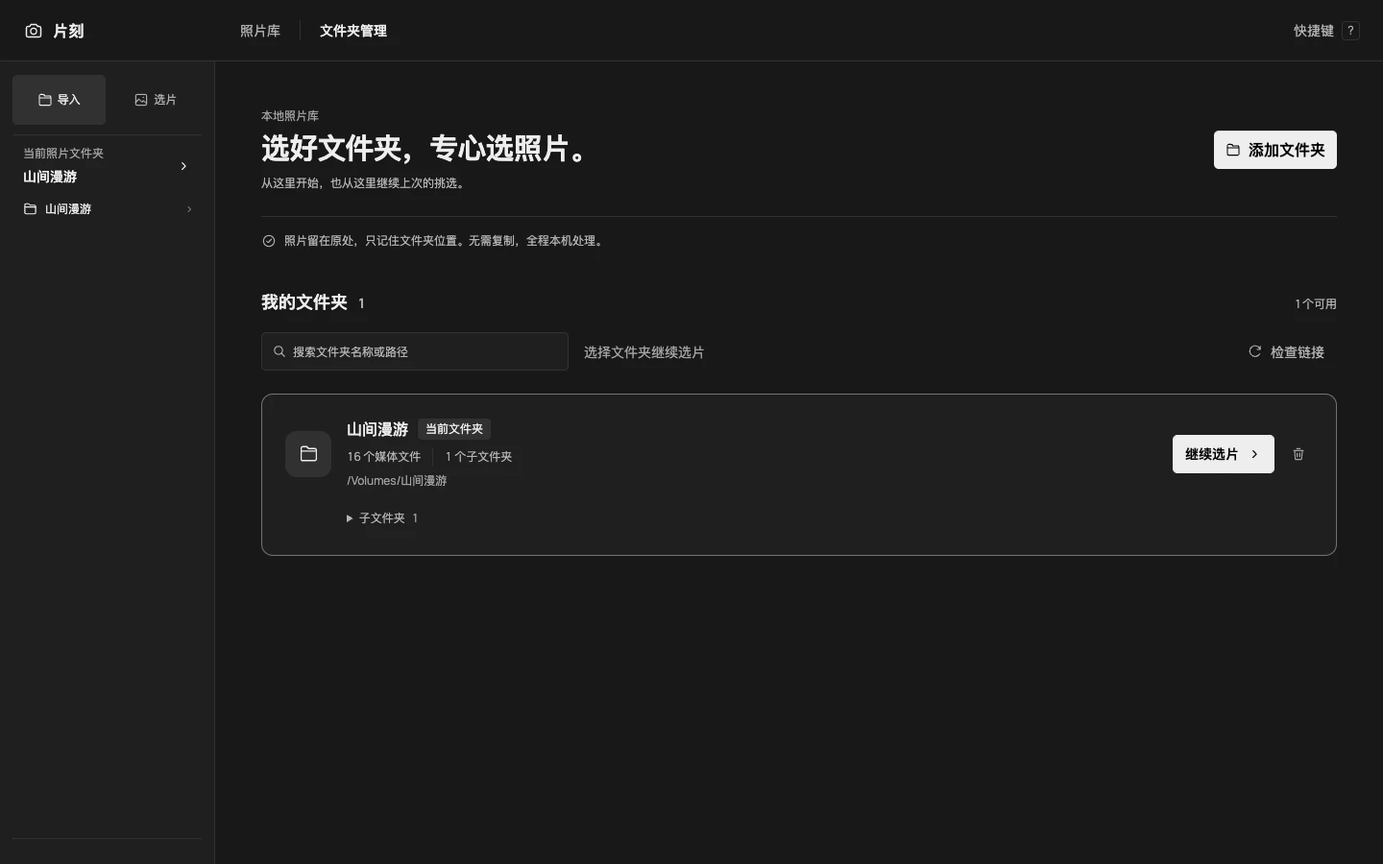
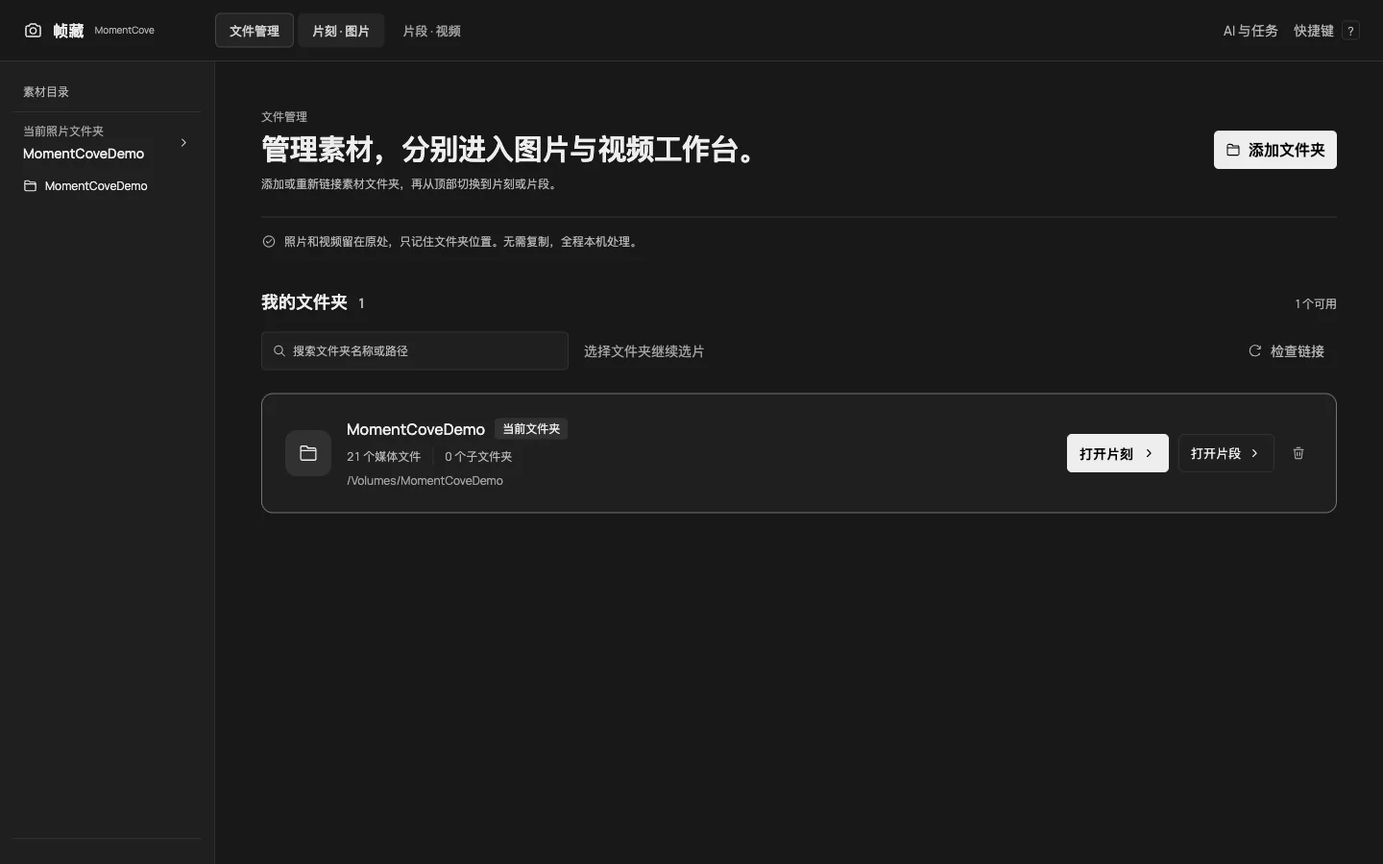
feat(site): 改用自有演示素材并同步 2.0.2 下载
使用作者授权的20张自有图片重拍单图、专注、对比、网格、文件管理和视频工作台截图。
替换现有公开图，删除旧风景演示资产，同步版权、截图版本和视频演示说明。
片刻与片段继续独立展示、共用同一个安装包。28项站点回归通过，原始PNG哈希未变。

diff --git a/cook-photo/index.html b/cook-photo/index.html
@@ -4,10 +4,10 @@
   <meta charset="utf-8">
   <meta name="viewport" content="width=device-width, initial-scale=1">
   <meta name="theme-color" content="#f5f5f7">
-  <meta name="description" content="下载帧藏 MomentCove 2.0.1，使用片刻图片工作台。黑白灰暗色主题、H 一键专注、居中胶片条、本地文件夹管理、照片标星与 RAW 整理。">
+  <meta name="description" content="下载帧藏 MomentCove 2.0.2，使用片刻图片工作台。黑白灰暗色主题、H 一键专注、居中胶片条、本地文件夹管理、照片标星与 RAW 整理。">
   <meta property="og:title" content="片刻 cook-photo · 专注于选片的 Mac 小工具">
   <meta property="og:description" content="黑白灰工作台，让照片成为主角。H 一键专注选片，胶片条随选中项居中，切换文件夹后接着选。">
-  <meta property="og:image" content="https://cxdy.top/assets/images/cook-photo-single.webp?v=1.6.0">
+  <meta property="og:image" content="https://cxdy.top/assets/images/cook-photo-single.webp?v=2.0.2">
   <meta property="og:url" content="https://cxdy.top/cook-photo/">
   <meta property="og:type" content="website">
   <meta property="og:site_name" content="爨乡的云">
@@ -44,7 +44,7 @@
   <div class="local-nav">
     <nav class="local-nav-inner" aria-label="片刻产品导航">
       <a class="local-title" href="#overview">片刻</a>
-      <div class="local-links"><a class="local-overview" href="#features">功能亮点</a><a class="local-screens" href="#screens-title">实际界面</a><a href="#guide-title">安装说明</a><a class="button local-download" href="https://github.com/cxdyun/cxdy-top/releases/download/cxdy-moment-v2.0.1/cxdy-moment-2.0.1-arm64.dmg">下载<span class="sr-only">片刻测试版</span></a></div>
+      <div class="local-links"><a class="local-overview" href="#features">功能亮点</a><a class="local-screens" href="#screens-title">实际界面</a><a href="#guide-title">安装说明</a><a class="button local-download" href="https://github.com/cxdyun/cxdy-top/releases/download/cxdy-moment-v2.0.2/cxdy-moment-2.0.2-arm64.dmg">下载<span class="sr-only">片刻测试版</span></a></div>
     </nav>
   </div>
     <main class="tool-page" id="main" tabindex="-1">
@@ -55,12 +55,12 @@
           <p class="tool-description">黑白灰工作台，让照片成为主角。<br>一键收起界面，专心看清每一张。</p>
         </div>
         <div class="release-download">
-          <a class="button primary-link" href="https://github.com/cxdyun/cxdy-top/releases/download/cxdy-moment-v2.0.1/cxdy-moment-2.0.1-arm64.dmg">下载 macOS 版<span class="sr-only">（DMG 安装包，Apple Silicon）</span></a>
-          <p class="runtime-note">与片段共用帧藏 MomentCove 安装包，文件管理、图片和视频在顶部独立切换。<br>v2.0.1 测试版 · 492.0 MiB<br>Apple Silicon · macOS 26.2 及以上<br>尚未完成 Apple 公证 · <a href="#guide-title">安装说明</a></p>
+          <a class="button primary-link" href="https://github.com/cxdyun/cxdy-top/releases/download/cxdy-moment-v2.0.2/cxdy-moment-2.0.2-arm64.dmg">下载 macOS 版<span class="sr-only">（DMG 安装包，Apple Silicon）</span></a>
+          <p class="runtime-note">与片段共用帧藏 MomentCove 安装包，文件管理、图片和视频在顶部独立切换。<br>v2.0.2 测试版 · 489.6 MiB<br>Apple Silicon · macOS 26.2 及以上<br>尚未完成 Apple 公证 · <a href="#guide-title">安装说明</a></p>
         </div>
       </section>
       <figure class="product-shot hero-shot">
-        <a class="screenshot-link" href="/assets/images/cook-photo-single.webp?v=1.6.0" target="_blank" rel="noopener" aria-label="查看单图选片原尺寸截图（在新标签页打开）"><img src="/assets/images/cook-photo-single.webp?v=1.6.0" width="1440" height="900" fetchpriority="high" decoding="async" alt="片刻真实界面：中央大图预览山湖照片，底部胶片条定位当前照片，左侧筛选，工具栏支持五级标星与待删除标记。"></a>
+        <a class="screenshot-link" href="/assets/images/cook-photo-single.webp?v=2.0.2" target="_blank" rel="noopener" aria-label="查看单图选片原尺寸截图（在新标签页打开）"><img src="/assets/images/cook-photo-single.webp?v=2.0.2" width="1440" height="900" fetchpriority="high" decoding="async" alt="片刻真实界面：中央大图预览水乡晨光图片，底部胶片条定位当前照片，左侧筛选，工具栏支持五级标星与待删除标记。"></a>
         <figcaption><span><b>01 / 单图选片</b> 大图看细节，胶片条随选中项居中，到首尾自动停靠。</span><span class="shot-shortcut"><kbd>←</kbd><kbd>→</kbd> 切图 <kbd>0–5</kbd> 标星 <kbd>X</kbd> 待删除</span></figcaption>
       </figure>
       <section class="tool-features" id="features" aria-labelledby="features-title">
@@ -71,10 +71,10 @@
         <div><span class="feature-index">03</span><h3>顺手，才够快。</h3><p>按 H 进入专注模式，收起导航、信息栏与胶片条。方向键切图、数字键标星，Esc 依次退出放大、对比和专注。</p></div>
         </div>
       </section>
-      <section class="screen-gallery" aria-labelledby="screens-title"><div class="gallery-heading"><div><p class="eyebrow">实际使用</p><h2 id="screens-title">专注、比较、整理。</h2></div><p>沿用原有 1.6.0 风景素材截图；2.0.1 增加三模块导航与本地 AI。</p></div><div class="screen-pair"><figure class="product-shot"><a class="screenshot-link" href="/assets/images/cook-photo-focus.webp?v=1.6.0" target="_blank" rel="noopener" aria-label="查看专注选片原尺寸截图（在新标签页打开）"><img src="/assets/images/cook-photo-focus.webp?v=1.6.0" width="1440" height="900" loading="lazy" decoding="async" alt="片刻 1.6.0 专注选片真实界面：按 H 收起四周面板，把空间留给照片。"></a><figcaption><b>02 / 专注选片</b><p>按 H 收起四周面板，把空间留给照片。</p></figcaption></figure>
-<figure class="product-shot"><a class="screenshot-link" href="/assets/images/cook-photo-compare.webp?v=1.6.0" target="_blank" rel="noopener" aria-label="查看左右对比原尺寸截图（在新标签页打开）"><img src="/assets/images/cook-photo-compare.webp?v=1.6.0" width="1440" height="900" loading="lazy" decoding="async" alt="片刻 1.6.0 左右对比真实界面：按 C 并排比较，放大查看细节。"></a><figcaption><b>03 / 左右对比</b><p>按 C 并排比较，放大查看细节。</p></figcaption></figure>
-<figure class="product-shot"><a class="screenshot-link" href="/assets/images/cook-photo-grid.webp?v=1.6.0" target="_blank" rel="noopener" aria-label="查看网格浏览原尺寸截图（在新标签页打开）"><img src="/assets/images/cook-photo-grid.webp?v=1.6.0" width="1440" height="900" loading="lazy" decoding="async" alt="片刻 1.6.0 网格浏览真实界面：一屏浏览整组照片，白色轮廓标示当前选择。"></a><figcaption><b>04 / 网格浏览</b><p>一屏浏览整组照片，白色轮廓标示当前选择。</p></figcaption></figure>
-<figure class="product-shot"><a class="screenshot-link" href="/assets/images/cook-photo-folders.webp?v=1.6.0" target="_blank" rel="noopener" aria-label="查看文件夹管理原尺寸截图（在新标签页打开）"><img src="/assets/images/cook-photo-folders.webp?v=1.6.0" width="1440" height="900" loading="lazy" decoding="async" alt="片刻 1.6.0 文件夹管理真实界面：记住本地目录，切换后继续上次的挑选。"></a><figcaption><b>05 / 文件夹管理</b><p>记住本地目录，切换后继续上次的挑选。</p></figcaption></figure></div><p class="screenshot-note">以上为 1.6.0 原有图片工作台实拍，使用公开风景演示库，不含私人照片或个人目录。点击图片查看原尺寸。<a href="/cook-photo/credits.md">素材来源与许可</a></p></section>
+      <section class="screen-gallery" aria-labelledby="screens-title"><div class="gallery-heading"><div><p class="eyebrow">实际使用</p><h2 id="screens-title">专注、比较、整理。</h2></div><p>2.0.2 实际工作台，演示图片均由作者授权公开。</p></div><div class="screen-pair"><figure class="product-shot"><a class="screenshot-link" href="/assets/images/cook-photo-focus.webp?v=2.0.2" target="_blank" rel="noopener" aria-label="查看专注选片原尺寸截图（在新标签页打开）"><img src="/assets/images/cook-photo-focus.webp?v=2.0.2" width="1440" height="900" loading="lazy" decoding="async" alt="片刻 2.0.2 专注选片真实界面：按 H 收起四周面板，把空间留给照片。"></a><figcaption><b>02 / 专注选片</b><p>按 H 收起四周面板，把空间留给照片。</p></figcaption></figure>
+<figure class="product-shot"><a class="screenshot-link" href="/assets/images/cook-photo-compare.webp?v=2.0.2" target="_blank" rel="noopener" aria-label="查看左右对比原尺寸截图（在新标签页打开）"><img src="/assets/images/cook-photo-compare.webp?v=2.0.2" width="1440" height="900" loading="lazy" decoding="async" alt="片刻 2.0.2 左右对比真实界面：按 C 并排比较，放大查看细节。"></a><figcaption><b>03 / 左右对比</b><p>按 C 并排比较，放大查看细节。</p></figcaption></figure>
+<figure class="product-shot"><a class="screenshot-link" href="/assets/images/cook-photo-grid.webp?v=2.0.2" target="_blank" rel="noopener" aria-label="查看网格浏览原尺寸截图（在新标签页打开）"><img src="/assets/images/cook-photo-grid.webp?v=2.0.2" width="1440" height="900" loading="lazy" decoding="async" alt="片刻 2.0.2 网格浏览真实界面：一屏浏览整组照片，白色轮廓标示当前选择。"></a><figcaption><b>04 / 网格浏览</b><p>一屏浏览整组照片，白色轮廓标示当前选择。</p></figcaption></figure>
+<figure class="product-shot"><a class="screenshot-link" href="/assets/images/cook-photo-folders.webp?v=2.0.2" target="_blank" rel="noopener" aria-label="查看文件夹管理原尺寸截图（在新标签页打开）"><img src="/assets/images/cook-photo-folders.webp?v=2.0.2" width="1440" height="900" loading="lazy" decoding="async" alt="片刻 2.0.2 文件夹管理真实界面：记住本地目录，切换后继续上次的挑选。"></a><figcaption><b>05 / 文件夹管理</b><p>记住本地目录，切换后继续上次的挑选。</p></figcaption></figure></div><p class="screenshot-note">以上为 2.0.2 实际工作台截图，使用作者自有授权演示库，不含私人照片或个人目录。点击图片查看原尺寸。<a href="/cook-photo/credits.md">素材来源与许可</a></p></section>
       <section class="start-guide" aria-labelledby="folder-guide-title">
         <div><p class="eyebrow">本地文件夹管理</p><h2 id="folder-guide-title">记住位置，继续选片。</h2></div>
         <div class="guide-content">
@@ -86,7 +86,7 @@
         <div><p class="eyebrow">开始使用</p><h2 id="guide-title">装好，就能选片。</h2></div>
         <div class="guide-content">
           <ol><li><span>下载并打开 DMG，将 MomentCove 拖入 Applications。</span></li><li><span>从应用程序目录打开「帧藏」。</span></li><li><span>在“文件管理”页添加照片文件夹，点击“打开片刻”，即可浏览、标星与整理。</span></li></ol>
-          <details><summary>首次打开与版本说明<span class="details-plus" aria-hidden="true"></span></summary><p>当前为 Apple Silicon 测试版，尚未完成 Apple Developer ID 签名与公证。如果系统阻止首次启动，请确认文件来自本站，再参考 <a href="https://support.apple.com/zh-cn/102445" target="_blank" rel="noopener noreferrer">Apple 官方说明</a>，在系统提供的“隐私与安全性 → 仍要打开”入口自行确认。Intel Mac 暂不支持。</p><p>最低系统目标为 macOS 26.2，已在当前 Apple Silicon Mac 上完成验证，尚未覆盖所有系统版本。星级写入 JPG、RAW 与 XMP；像素蛋糕对外部星级的识别仍需实际导入确认。</p><p>后台随应用启动和退出，关闭窗口时会等待已提交的文件操作完成。帧藏从空库开始，不导入旧应用数据；旧应用原始素材与恢复记录保持原状。<a href="https://github.com/cxdyun/cxdy-top/releases/tag/cxdy-moment-v2.0.1">查看发行说明</a> · <a href="https://github.com/cxdyun/cxdy-top/releases/download/cxdy-moment-v2.0.1/cxdy-moment-2.0.1-arm64.dmg.sha256">下载 SHA-256 校验文件</a></p></details>
+          <details><summary>首次打开与版本说明<span class="details-plus" aria-hidden="true"></span></summary><p>当前为 Apple Silicon 测试版，尚未完成 Apple Developer ID 签名与公证。如果系统阻止首次启动，请确认文件来自本站，再参考 <a href="https://support.apple.com/zh-cn/102445" target="_blank" rel="noopener noreferrer">Apple 官方说明</a>，在系统提供的“隐私与安全性 → 仍要打开”入口自行确认。Intel Mac 暂不支持。</p><p>最低系统目标为 macOS 26.2，已在当前 Apple Silicon Mac 上完成验证，尚未覆盖所有系统版本。星级写入 JPG、RAW 与 XMP；像素蛋糕对外部星级的识别仍需实际导入确认。</p><p>后台随应用启动和退出，关闭窗口时会等待已提交的文件操作完成。帧藏从空库开始，不导入旧应用数据；旧应用原始素材与恢复记录保持原状。<a href="https://github.com/cxdyun/cxdy-top/releases/tag/cxdy-moment-v2.0.2">查看发行说明</a> · <a href="https://github.com/cxdyun/cxdy-top/releases/download/cxdy-moment-v2.0.2/cxdy-moment-2.0.2-arm64.dmg.sha256">下载 SHA-256 校验文件</a></p></details>
         </div>
       </section>
     </main>

diff --git a/index.html b/index.html
@@ -51,24 +51,24 @@
           <p class="product-description">黑白灰工作台，让照片成为主角。<br class="mobile-break">按 H 专注选片，从整组里留下喜欢。</p>
           <div class="product-actions">
             <a class="button" href="/cook-photo/">进一步了解<span class="sr-only">片刻</span></a>
-            <a class="button button-outline" href="https://github.com/cxdyun/cxdy-top/releases/download/cxdy-moment-v2.0.1/cxdy-moment-2.0.1-arm64.dmg">下载测试版<span class="sr-only">（帧藏 2.0.1，DMG，Apple Silicon）</span></a>
+            <a class="button button-outline" href="https://github.com/cxdyun/cxdy-top/releases/download/cxdy-moment-v2.0.2/cxdy-moment-2.0.2-arm64.dmg">下载测试版<span class="sr-only">（帧藏 2.0.2，DMG，Apple Silicon）</span></a>
           </div>
           <p class="product-compatibility">Apple Silicon · macOS 26.2 及以上 · <a href="/cook-photo/#guide-title">未公证测试版</a></p>
         </div>
-        <div class="gallery" data-gallery><div class="gallery-track" id="photo-gallery" tabindex="0" role="region" aria-roledescription="轮播图" aria-label="片刻真实界面，可横向滚动浏览"><figure class="gallery-slide"><a class="screenshot-link" href="/assets/images/cook-photo-single.webp?v=1.6.0" target="_blank" rel="noopener" aria-label="查看单图选片原尺寸截图（在新标签页打开）"><img src="/assets/images/cook-photo-single.webp?v=1.6.0" width="1440" height="900" fetchpriority="high" decoding="async" alt="片刻 1.6.0 单图选片真实界面：黑白灰工作台，大图预览与居中胶片条。"></a><figcaption><strong>单图选片。</strong> 黑白灰工作台，大图预览与居中胶片条。</figcaption></figure>
-<figure class="gallery-slide"><a class="screenshot-link" href="/assets/images/cook-photo-focus.webp?v=1.6.0" target="_blank" rel="noopener" aria-label="查看专注选片原尺寸截图（在新标签页打开）"><img src="/assets/images/cook-photo-focus.webp?v=1.6.0" width="1440" height="900" loading="lazy" decoding="async" alt="片刻 1.6.0 专注选片真实界面：按 H 收起四周面板，把空间留给照片。"></a><figcaption><strong>专注选片。</strong> 按 H 收起四周面板，把空间留给照片。</figcaption></figure>
-<figure class="gallery-slide"><a class="screenshot-link" href="/assets/images/cook-photo-compare.webp?v=1.6.0" target="_blank" rel="noopener" aria-label="查看左右对比原尺寸截图（在新标签页打开）"><img src="/assets/images/cook-photo-compare.webp?v=1.6.0" width="1440" height="900" loading="lazy" decoding="async" alt="片刻 1.6.0 左右对比真实界面：按 C 并排比较，放大查看细节。"></a><figcaption><strong>左右对比。</strong> 按 C 并排比较，放大查看细节。</figcaption></figure>
-<figure class="gallery-slide"><a class="screenshot-link" href="/assets/images/cook-photo-grid.webp?v=1.6.0" target="_blank" rel="noopener" aria-label="查看网格浏览原尺寸截图（在新标签页打开）"><img src="/assets/images/cook-photo-grid.webp?v=1.6.0" width="1440" height="900" loading="lazy" decoding="async" alt="片刻 1.6.0 网格浏览真实界面：一屏浏览整组照片，白色轮廓标示当前选择。"></a><figcaption><strong>网格浏览。</strong> 一屏浏览整组照片，白色轮廓标示当前选择。</figcaption></figure>
-<figure class="gallery-slide"><a class="screenshot-link" href="/assets/images/cook-photo-folders.webp?v=1.6.0" target="_blank" rel="noopener" aria-label="查看文件夹管理原尺寸截图（在新标签页打开）"><img src="/assets/images/cook-photo-folders.webp?v=1.6.0" width="1440" height="900" loading="lazy" decoding="async" alt="片刻 1.6.0 文件夹管理真实界面：记住本地目录，切换后继续上次的挑选。"></a><figcaption><strong>文件夹管理。</strong> 记住本地目录，切换后继续上次的挑选。</figcaption></figure></div><div class="gallery-controls" role="group" aria-label="切换片刻截图" hidden><button type="button" aria-controls="photo-gallery" aria-pressed="true"><span class="gallery-dot" aria-hidden="true"></span>单图选片</button>
+        <div class="gallery" data-gallery><div class="gallery-track" id="photo-gallery" tabindex="0" role="region" aria-roledescription="轮播图" aria-label="片刻真实界面，可横向滚动浏览"><figure class="gallery-slide"><a class="screenshot-link" href="/assets/images/cook-photo-single.webp?v=2.0.2" target="_blank" rel="noopener" aria-label="查看单图选片原尺寸截图（在新标签页打开）"><img src="/assets/images/cook-photo-single.webp?v=2.0.2" width="1440" height="900" fetchpriority="high" decoding="async" alt="片刻 2.0.2 单图选片真实界面：黑白灰工作台，大图预览与居中胶片条。"></a><figcaption><strong>单图选片。</strong> 黑白灰工作台，大图预览与居中胶片条。</figcaption></figure>
+<figure class="gallery-slide"><a class="screenshot-link" href="/assets/images/cook-photo-focus.webp?v=2.0.2" target="_blank" rel="noopener" aria-label="查看专注选片原尺寸截图（在新标签页打开）"><img src="/assets/images/cook-photo-focus.webp?v=2.0.2" width="1440" height="900" loading="lazy" decoding="async" alt="片刻 2.0.2 专注选片真实界面：按 H 收起四周面板，把空间留给照片。"></a><figcaption><strong>专注选片。</strong> 按 H 收起四周面板，把空间留给照片。</figcaption></figure>
+<figure class="gallery-slide"><a class="screenshot-link" href="/assets/images/cook-photo-compare.webp?v=2.0.2" target="_blank" rel="noopener" aria-label="查看左右对比原尺寸截图（在新标签页打开）"><img src="/assets/images/cook-photo-compare.webp?v=2.0.2" width="1440" height="900" loading="lazy" decoding="async" alt="片刻 2.0.2 左右对比真实界面：按 C 并排比较，放大查看细节。"></a><figcaption><strong>左右对比。</strong> 按 C 并排比较，放大查看细节。</figcaption></figure>
+<figure class="gallery-slide"><a class="screenshot-link" href="/assets/images/cook-photo-grid.webp?v=2.0.2" target="_blank" rel="noopener" aria-label="查看网格浏览原尺寸截图（在新标签页打开）"><img src="/assets/images/cook-photo-grid.webp?v=2.0.2" width="1440" height="900" loading="lazy" decoding="async" alt="片刻 2.0.2 网格浏览真实界面：一屏浏览整组照片，白色轮廓标示当前选择。"></a><figcaption><strong>网格浏览。</strong> 一屏浏览整组照片，白色轮廓标示当前选择。</figcaption></figure>
+<figure class="gallery-slide"><a class="screenshot-link" href="/assets/images/cook-photo-folders.webp?v=2.0.2" target="_blank" rel="noopener" aria-label="查看文件夹管理原尺寸截图（在新标签页打开）"><img src="/assets/images/cook-photo-folders.webp?v=2.0.2" width="1440" height="900" loading="lazy" decoding="async" alt="片刻 2.0.2 文件夹管理真实界面：记住本地目录，切换后继续上次的挑选。"></a><figcaption><strong>文件夹管理。</strong> 记住本地目录，切换后继续上次的挑选。</figcaption></figure></div><div class="gallery-controls" role="group" aria-label="切换片刻截图" hidden><button type="button" aria-controls="photo-gallery" aria-pressed="true"><span class="gallery-dot" aria-hidden="true"></span>单图选片</button>
 <button type="button" aria-controls="photo-gallery" aria-pressed="false"><span class="gallery-dot" aria-hidden="true"></span>专注选片</button>
 <button type="button" aria-controls="photo-gallery" aria-pressed="false"><span class="gallery-dot" aria-hidden="true"></span>左右对比</button>
 <button type="button" aria-controls="photo-gallery" aria-pressed="false"><span class="gallery-dot" aria-hidden="true"></span>网格浏览</button>
 <button type="button" aria-controls="photo-gallery" aria-pressed="false"><span class="gallery-dot" aria-hidden="true"></span>文件夹管理</button></div><p class="sr-only gallery-status" aria-live="polite" aria-atomic="true"></p></div>
-        <p class="screenshot-note">v1.6.0 原有真实界面。保留原截图与风景素材；当前 2.0.1 增加独立导航与本地 AI。</p>
+        <p class="screenshot-note">v2.0.2 真实界面，使用作者自有、明确授权公开的图片素材。</p>
       </section>
       <section class="product video-product" aria-labelledby="video-title">
-        <div class="product-heading"><p class="product-category">片段</p><h2 id="video-title">把精彩，留在故事里。</h2><p class="product-description">本地 AI 寻找值得回看的画面。<br class="mobile-break">亲手修正范围，按保留片段导出。</p><div class="product-actions"><a class="button" href="/video-select/">进一步了解<span class="sr-only">片段</span></a><a class="button button-outline" href="https://github.com/cxdyun/cxdy-top/releases/download/cxdy-moment-v2.0.1/cxdy-moment-2.0.1-arm64.dmg">下载测试版<span class="sr-only">（帧藏 2.0.1，DMG，Apple Silicon）</span></a></div><p class="product-compatibility">Apple Silicon · macOS 26.2 及以上 · <a href="/video-select/#guide-title">未公证测试版</a></p></div>
-        <figure class="product-shot"><a href="/video-select/"><img src="/assets/images/moment-video.webp?v=2.0.0" alt="片段实际界面：视频预览、精彩与保留双轨、模型状态和人工备注。演示视频由原有公开风景素材制作。" width="1408" height="788" loading="lazy" decoding="async"></a><figcaption>双轨范围、人工备注与独立素材导出。与片刻下载同一个帧藏安装包。</figcaption></figure>
+        <div class="product-heading"><p class="product-category">片段</p><h2 id="video-title">把精彩，留在故事里。</h2><p class="product-description">本地 AI 寻找值得回看的画面。<br class="mobile-break">亲手修正范围，按保留片段导出。</p><div class="product-actions"><a class="button" href="/video-select/">进一步了解<span class="sr-only">片段</span></a><a class="button button-outline" href="https://github.com/cxdyun/cxdy-top/releases/download/cxdy-moment-v2.0.2/cxdy-moment-2.0.2-arm64.dmg">下载测试版<span class="sr-only">（帧藏 2.0.2，DMG，Apple Silicon）</span></a></div><p class="product-compatibility">Apple Silicon · macOS 26.2 及以上 · <a href="/video-select/#guide-title">未公证测试版</a></p></div>
+        <figure class="product-shot"><a href="/video-select/"><img src="/assets/images/moment-video.webp?v=2.0.2" alt="片段实际界面：视频预览、精彩与保留双轨、模型状态和人工备注。演示视频由作者授权图片制作。" width="1440" height="900" loading="lazy" decoding="async"></a><figcaption>双轨范围、人工备注与独立素材导出。与片刻下载同一个帧藏安装包。</figcaption></figure>
       </section>
       <section class="product atlas-product" aria-labelledby="atlas-title">
         <div class="product-heading">

diff --git a/video-select/index.html b/video-select/index.html
@@ -7,7 +7,7 @@
   <meta name="description" content="片段视频选片工作台。本地 AI 分析、精彩与保留双轨、人工备注与分段导出，与片刻共用一个帧藏安装包。">
   <meta property="og:title" content="片段 · 专注于选片的 Mac 小工具">
   <meta property="og:description" content="本地分析视频，人工修正精彩与保留范围，按保留片段导出。">
-  <meta property="og:image" content="https://cxdy.top/assets/images/moment-video.webp?v=2.0.1">
+  <meta property="og:image" content="https://cxdy.top/assets/images/moment-video.webp?v=2.0.2">
   <meta property="og:url" content="https://cxdy.top/video-select/">
   <meta property="og:type" content="website">
   <meta property="og:site_name" content="爨乡的云">
@@ -44,14 +44,14 @@
   <div class="local-nav">
     <nav class="local-nav-inner" aria-label="片段产品导航">
       <a class="local-title" href="#overview">片段</a>
-      <div class="local-links"><a class="local-overview" href="#features">功能亮点</a><a class="local-screens" href="#screens-title">实际界面</a><a href="#guide-title">安装说明</a><a class="button local-download" href="https://github.com/cxdyun/cxdy-top/releases/download/cxdy-moment-v2.0.1/cxdy-moment-2.0.1-arm64.dmg">下载<span class="sr-only">片段测试版</span></a></div>
+      <div class="local-links"><a class="local-overview" href="#features">功能亮点</a><a class="local-screens" href="#screens-title">实际界面</a><a href="#guide-title">安装说明</a><a class="button local-download" href="https://github.com/cxdyun/cxdy-top/releases/download/cxdy-moment-v2.0.2/cxdy-moment-2.0.2-arm64.dmg">下载<span class="sr-only">片段测试版</span></a></div>
     </nav>
   </div>
     <main class="tool-page" id="main" tabindex="-1">
-      <section class="tool-hero release-hero" id="overview" aria-labelledby="tool-title"><div class="tool-copy"><h1 id="tool-title">片段</h1><p class="tool-lead">把精彩，留在故事里。</p><p class="tool-description">本地分析，亲手修正。<br>从长视频中，留下值得回看的部分。</p></div><div class="release-download"><a class="button primary-link" href="https://github.com/cxdyun/cxdy-top/releases/download/cxdy-moment-v2.0.1/cxdy-moment-2.0.1-arm64.dmg">下载 macOS 版</a><p class="runtime-note">与片刻共用帧藏 MomentCove 安装包。<br>v2.0.1 测试版 · 492.0 MiB<br>Apple Silicon · macOS 26.2 及以上<br>尚未完成 Apple 公证 · <a href="#guide-title">安装说明</a></p></div></section>
-      <figure class="product-shot hero-shot" id="screens-title"><a class="screenshot-link" href="/assets/images/moment-video.webp?v=2.0.1"><img src="/assets/images/moment-video.webp?v=2.0.1" width="1408" height="788" fetchpriority="high" decoding="async" alt="片段真实运行界面，展示原风景素材制作的演示视频、双轨范围、模型状态与人工备注。"></a><figcaption>2.0.0 原有实际界面，沿用原有公开风景素材制作演示视频，不包含私人素材。</figcaption></figure>
+      <section class="tool-hero release-hero" id="overview" aria-labelledby="tool-title"><div class="tool-copy"><h1 id="tool-title">片段</h1><p class="tool-lead">把精彩，留在故事里。</p><p class="tool-description">本地分析，亲手修正。<br>从长视频中，留下值得回看的部分。</p></div><div class="release-download"><a class="button primary-link" href="https://github.com/cxdyun/cxdy-top/releases/download/cxdy-moment-v2.0.2/cxdy-moment-2.0.2-arm64.dmg">下载 macOS 版</a><p class="runtime-note">与片刻共用帧藏 MomentCove 安装包。<br>v2.0.2 测试版 · 489.6 MiB<br>Apple Silicon · macOS 26.2 及以上<br>尚未完成 Apple 公证 · <a href="#guide-title">安装说明</a></p></div></section>
+      <figure class="product-shot hero-shot" id="screens-title"><a class="screenshot-link" href="/assets/images/moment-video.webp?v=2.0.2"><img src="/assets/images/moment-video.webp?v=2.0.2" width="1440" height="900" fetchpriority="high" decoding="async" alt="片段真实运行界面，展示作者授权图片制作的演示视频、双轨范围、模型状态与人工备注。"></a><figcaption>2.0.2 实际界面，使用作者授权图片制作演示视频，不包含私人素材。</figcaption></figure>
       <section class="tool-features" id="features" aria-labelledby="features-title"><div class="feature-heading"><p class="eyebrow">功能亮点</p><h2 id="features-title">建议交给 AI，取舍留给你。</h2></div><div class="feature-grid"><div><span class="feature-index">01</span><h3>精彩与保留，分别决定。</h3><p>两条时间线独立调整，未标精彩的区间也能点击回看。细竖条拖动控制边界，红色指示器跟随播放。</p></div><div><span class="feature-index">02</span><h3>备注可改，原建议保留。</h3><p>修改范围和备注会显示人工标识，不覆盖模型原始说明。1 秒起的画面速览帮助复核。</p></div><div><span class="feature-index">03</span><h3>按保留范围，导出素材。</h3><p>每一段生成独立 MP4，保存到工作盘，原视频不改动。模型可切换 4B/9B，提示词可编辑。</p></div></div></section>
-      <section class="start-guide" aria-labelledby="guide-title"><div><p class="eyebrow">开始使用</p><h2 id="guide-title">一个安装包，两种选片方式。</h2></div><div class="guide-content"><ol><li><span>打开 DMG，将 MomentCove 拖入 Applications，再打开“帧藏”。</span></li><li><span>选择工作盘，在“文件管理”添加视频文件夹，切换“片段”并选择目录。</span></li><li><span>在“片刻 → AI 与任务”设置模型目录，再分析视频、人工复核并导出。模型另行安装。</span></li></ol><details><summary>首次打开与版本说明<span class="details-plus" aria-hidden="true"></span></summary><p>当前为临时签名、尚未完成 Apple 公证的 Apple Silicon 测试版，最低 macOS 26.2。Intel Mac 暂不支持。首次打开如被系统阻止，请参考 <a href="https://support.apple.com/zh-cn/102445" target="_blank" rel="noopener noreferrer">Apple 官方说明</a>。</p><p>片刻与片段共用同一安装包；新应用从空库开始，不导入旧数据。视频仅分析画面，当前不分析声音，AI 候选仍需人工复核。</p><p><a href="https://github.com/cxdyun/cxdy-top/releases/tag/cxdy-moment-v2.0.1">查看发行说明</a> · <a href="https://github.com/cxdyun/cxdy-top/releases/download/cxdy-moment-v2.0.1/cxdy-moment-2.0.1-arm64.dmg.sha256">下载 SHA-256 校验文件</a></p></details></div></section>
+      <section class="start-guide" aria-labelledby="guide-title"><div><p class="eyebrow">开始使用</p><h2 id="guide-title">一个安装包，两种选片方式。</h2></div><div class="guide-content"><ol><li><span>打开 DMG，将 MomentCove 拖入 Applications，再打开“帧藏”。</span></li><li><span>选择工作盘，在“文件管理”添加视频文件夹，切换“片段”并选择目录。</span></li><li><span>在“片刻 → AI 与任务”设置模型目录，再分析视频、人工复核并导出。模型另行安装。</span></li></ol><details><summary>首次打开与版本说明<span class="details-plus" aria-hidden="true"></span></summary><p>当前为临时签名、尚未完成 Apple 公证的 Apple Silicon 测试版，最低 macOS 26.2。Intel Mac 暂不支持。首次打开如被系统阻止，请参考 <a href="https://support.apple.com/zh-cn/102445" target="_blank" rel="noopener noreferrer">Apple 官方说明</a>。</p><p>片刻与片段共用同一安装包；新应用从空库开始，不导入旧数据。视频仅分析画面，当前不分析声音，AI 候选仍需人工复核。</p><p><a href="https://github.com/cxdyun/cxdy-top/releases/tag/cxdy-moment-v2.0.2">查看发行说明</a> · <a href="https://github.com/cxdyun/cxdy-top/releases/download/cxdy-moment-v2.0.2/cxdy-moment-2.0.2-arm64.dmg.sha256">下载 SHA-256 校验文件</a></p></details></div></section>
     </main>
     <footer class="footer">
       <div class="footer-inner">

diff --git a/README.md b/README.md
@@ -10,29 +10,29 @@
 | 片段 | `/video-select/` | 与片刻共用帧藏 macOS 安装包 |
 | Assets Atlas | `/assets-atlas/` | .car 资源预览、筛选与导出，Universal 测试版 |
 
-片刻（图片）与片段（视频）分别展示、拥有独立详情页，共用帧藏 MomentCove 的同一个 DMG。源码仓库 `cxdyun/cxdy-moment` 保持私有；公开站点 Release 仅镜像安装包与 SHA-256，不包含应用源码或私人素材。当前 2.0.1 测试版仅支持 Apple Silicon、macOS 26.2 及以上，临时签名、未完成 Apple 公证，模型独立安装。应用从空库启动，不迁入旧应用数据。
+片刻（图片）与片段（视频）分别展示、拥有独立详情页，共用帧藏 MomentCove 的同一个 DMG。源码仓库 `cxdyun/cxdy-moment` 保持私有；公开站点 Release 仅镜像安装包与 SHA-256，不包含应用源码或私人素材。当前 2.0.2 测试版仅支持 Apple Silicon、macOS 26.2 及以上，临时签名、未完成 Apple 公证，模型独立安装。应用从空库启动，不迁入旧应用数据。
 
 应用的文件管理、片刻和片段使用一致的顶部入口。图片选片、AI 建议与文案，视频精彩候选、人工双轨修正、备注和保留片段导出均在本机处理。AI 分析及视频导出不改动原素材；用户主动标星沿用文件事务保护。
 
-主页和详情页保留原有 1.6.0 图片工作台截图及其风景素材，准确标注截图版本；新增视频截图也使用同一套已授权风景素材制作的演示视频。
+主页和详情页已替换为作者自有、明确授权公开的 20 张图片在 2.0.2 中的实际截图；视频演示由同一组图片制作。旧风景演示组已从当前站点移除，原始图片不公开打包。
 
 ## 片刻真实界面
 
 [查看产品发布页](https://cxdy.top/cook-photo/)
 
-![单图预览与标星](assets/images/cook-photo-single.webp?v=1.6.0)
+![单图预览与标星](assets/images/cook-photo-single.webp?v=2.0.2)
 
 | 左右对比 | 网格浏览 |
 | --- | --- |
-| ![左右对比](assets/images/cook-photo-compare.webp?v=1.6.0) | ![网格浏览](assets/images/cook-photo-grid.webp?v=1.6.0) |
+| ![左右对比](assets/images/cook-photo-compare.webp?v=2.0.2) | ![网格浏览](assets/images/cook-photo-grid.webp?v=2.0.2) |
 
-![专注选片](assets/images/cook-photo-focus.webp?v=1.6.0)
+![专注选片](assets/images/cook-photo-focus.webp?v=2.0.2)
 
-![文件夹管理](assets/images/cook-photo-folders.webp?v=1.6.0)
+![文件夹管理](assets/images/cook-photo-folders.webp?v=2.0.2)
 
-保留截图来自实际运行的 1.6.0 应用。按 H 专注、按 C 比较，胶片条居中，网格大小可调。[素材来源与许可](cook-photo/credits.md)。
+截图来自实际运行的 2.0.2 应用。按 H 专注、按 C 比较，胶片条居中，网格大小可调。[素材来源与许可](cook-photo/credits.md)。
 
-以上截图沿用 1.6.0 原有图片工作台界面，涵盖黑白主题、专注、对比、网格与文件夹管理。
+以上截图使用作者自有图片，从 2.0.2 工作台重新拍摄，涵盖黑白主题、专注、对比、网格与文件夹管理。
 
 ## 本地预览
 

diff --git a/cook-photo/credits.md b/cook-photo/credits.md
@@ -1,21 +1,9 @@
 # 产品截图素材说明
 
-截图于 2026-10-26 从片刻 1.6.0 最终生产构建中重新拍摄，尺寸 1440 × 900。五张分别展示黑白主题单图、H 专注模式、C 左右对比、网格浏览和文件夹管理。未修改应用 DOM 或拼接界面，不使用旧版浅色或设备同步截图。
+2026-10-27 经作者明确授权，个人主页、片刻和片段详情页改用作者自有的 20 张图片作为演示素材。旧风景素材与旧截图已从当前站点移除，不再采用 Unsplash 演示组。
 
-演示库名为“山间漫游”，来自独立公开风景素材；不含用户私人照片或个人目录。单图、专注和网格以第一张碧绿湖景为当前照片；对比展示演示库相邻照片。星级由演示文件已有元数据读取。
+单图、专注、对比、网格与文件管理截图来自实际运行的帧藏 MomentCove 2.0.2 工作台，尺寸 1440 × 900。未修改 DOM、未拼接界面。版权归作者；公开页面仅分发工作台截图，不提供素材原图打包下载。
 
-照片依照 [Unsplash License](https://unsplash.com/license) 用于产品演示，版权归摄影作者。仅分发应用界面截图，不分发照片原文件。RAW 写入能力另由临时副本测试验证。
+视频演示由其中的第一张水乡晨光图片生成 12 秒短片，在实际片段工作台展示分析、人工标记与备注。它用于界面演示，不是实拍视频，也不是模型识别准确率基准。
 
-| 演示文件 | 作者 | 原始作品 |
-| --- | --- | --- |
-| ALPINE_0001.JPG | Adam Vradenburg | [Unsplash](https://unsplash.com/photos/GA09PKfRIQY) |
-| ALPINE_0002.JPG（第一张的演示副本） | Adam Vradenburg | [Unsplash](https://unsplash.com/photos/GA09PKfRIQY) |
-| ALPINE_0003.JPG | Nathan Dumlao | [Unsplash](https://unsplash.com/photos/q3YZ4g7j9yc) |
-| ALPINE_0004.JPG | Daniel Roe | [Unsplash](https://unsplash.com/photos/lpjb_UMOyx8) |
-| ALPINE_0005.JPG | Alexey Murzin | [Unsplash](https://unsplash.com/photos/T8-Y9IwPFxE) |
-| ALPINE_0006.JPG | Nathan Dumlao | [Unsplash](https://unsplash.com/photos/3w_hlbOAibU) |
-| ALPINE_0007.JPG | fynn | [Unsplash](https://unsplash.com/photos/DEnuB_zok9M) |
-| ALPINE_0008.JPG | Nathan Dumlao | [Unsplash](https://unsplash.com/photos/4T6jS89NqgQ) |
-
-
-片段演示截图沿用同一套已授权风景素材，将山湖照片制作成短演示视频后在实际工作台截图；不代表实拍视频或模型准确率基准。
+演示过程只操作独立副本；原始 20 张 PNG 处理前后 SHA-256 保持一致，原始文件未修改。
